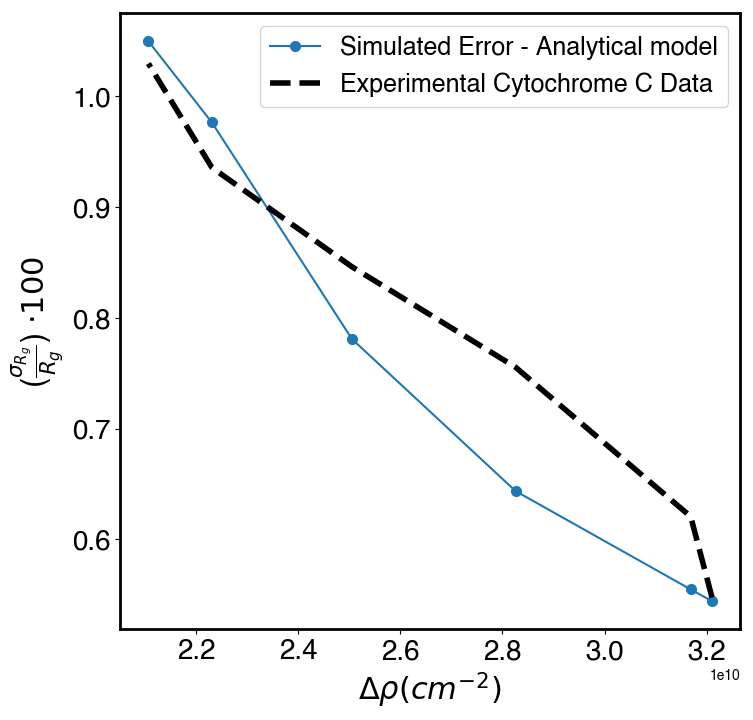
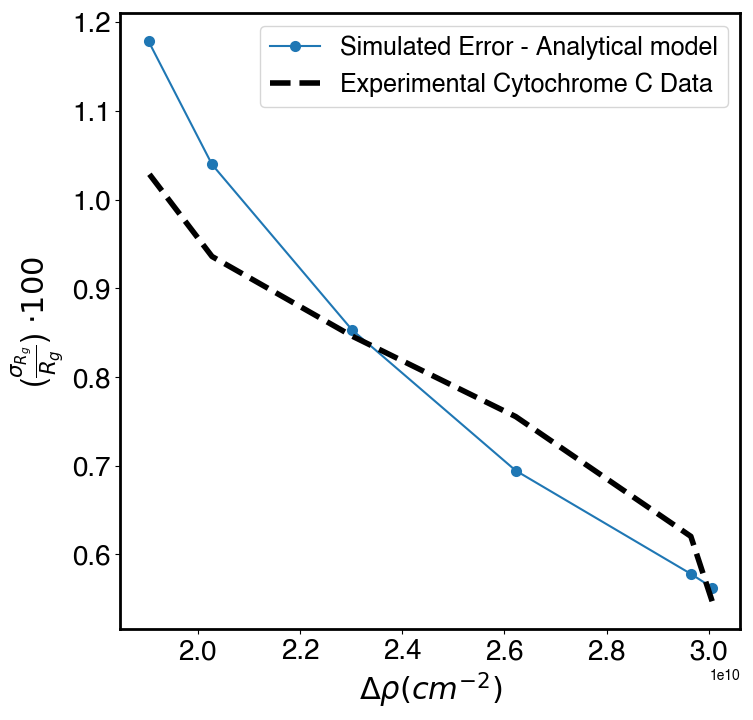
Cleaning up front end of the code, double checking calculations along the way

diff --git a/SAXS8.py b/SAXS8.py
@@ -57,7 +57,7 @@ def load_RAW_mask_from_msk(fname, xpix, ypix):
 
 class SAXS:
 
-    def __init__(self, custom_path="", sample_type='Protein', qRg=1.3, a=150, d=0.2, pp=440.0e21, ps=330.0e21, t=4,
+    def __init__(self, custom_path="", sample_type='Protein', qRg=1.3, a=150, d=0.2, pp=440.0e21, ps=334.6e21, t=4,
                  total_t=4, P=2.0e11, energy=10.0, mw=10, c=2, hr=2, shape='Sphere', salt_type='Water', salt_c=1,
                  mask="none", detector="100K"):
         """create a SAXS object for X-ray small angle scattering simulation,
@@ -328,6 +328,7 @@ class SAXS:
             self.pp = pp
         elif sample_type == 'RNA':
             self.pp = 550.0e21
+
 
         # electron density, ro, of solvent, number of electrons per centimeter**3
         # REG: these are assuming additive volume ... I think. Should check this.

diff --git a/SAXSProf.py b/SAXSProf.py
@@ -101,18 +101,6 @@ saxs1.load_I(sample_model_1,interpolate=True,q_array = saxs1.default_q)
 saxs1.readStandardProfiles("M_Nov07_")
 
 #############################################################################
-#############################################################################
-
-#saxs1.writeStandardProfiles("Nov07_")
-
-
-#############################################################################
-#############################################################################
-
-saxs1.v = 0.72 # protein specific volume
-saxs1.pp = 322e21/saxs1.v  # (from dry mass/specific volume)
-saxs1.ps = 334.6e21  # electrons/cm3 for buffer (water)
-saxs1.p = (saxs1.pp-saxs1.ps)*2.818e-13 # contrast
 
 saxs1.d = 0.15     # microfluidic mixing chip
 #saxs1.P = 1.6e11   # 8 um x 13 um CRL beam
